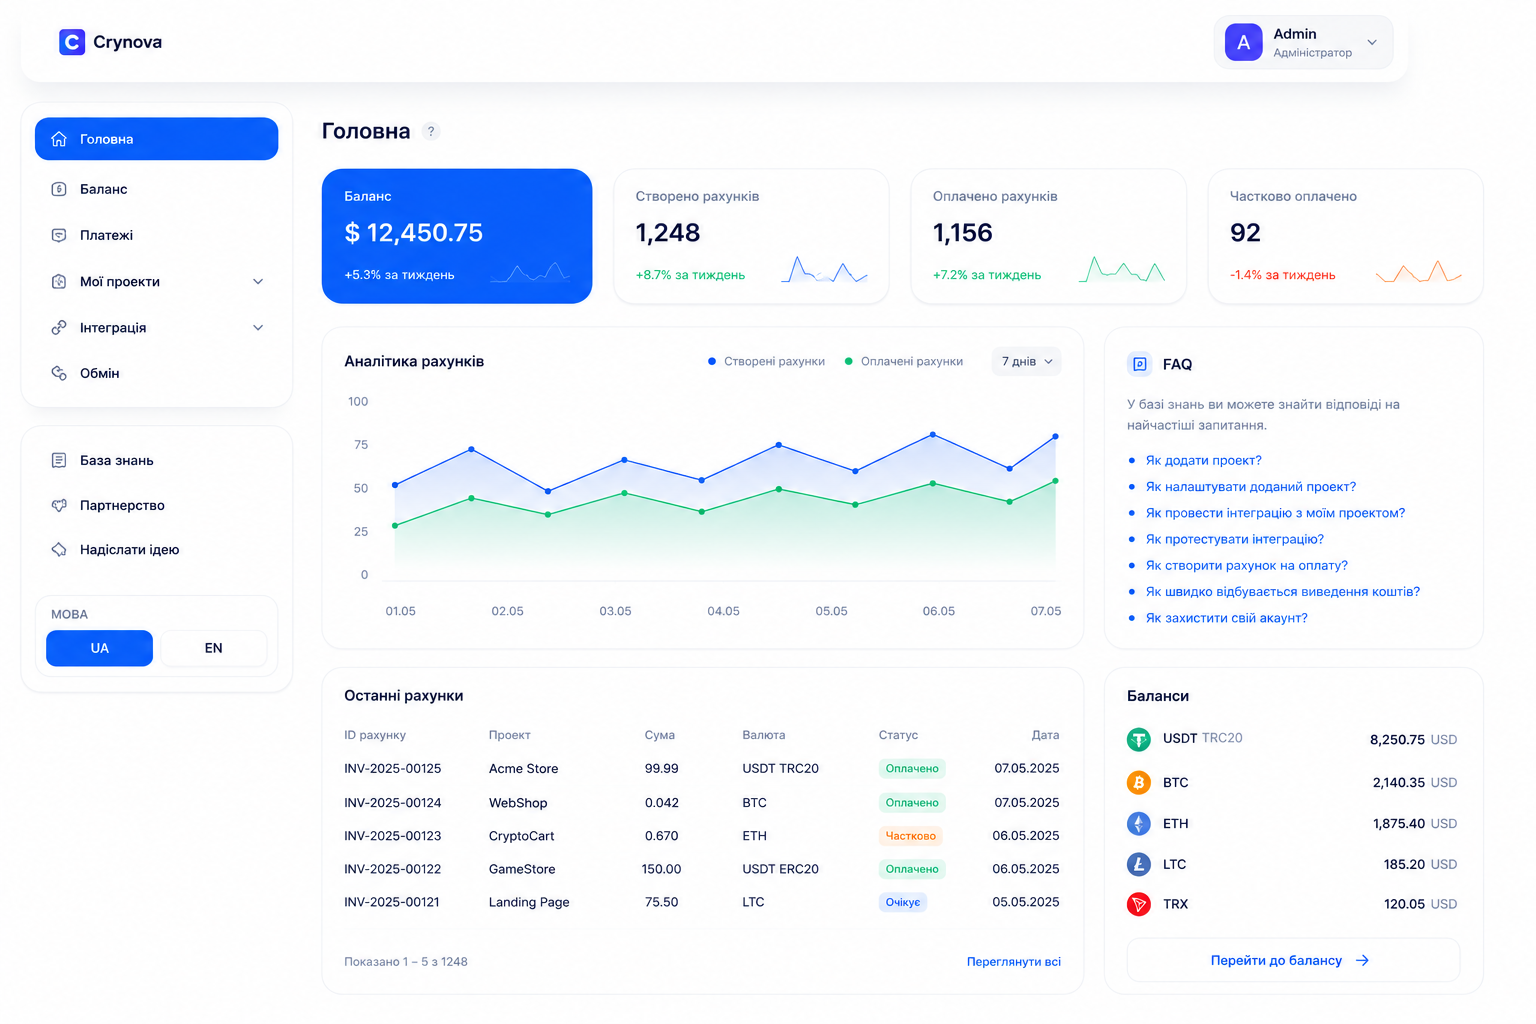
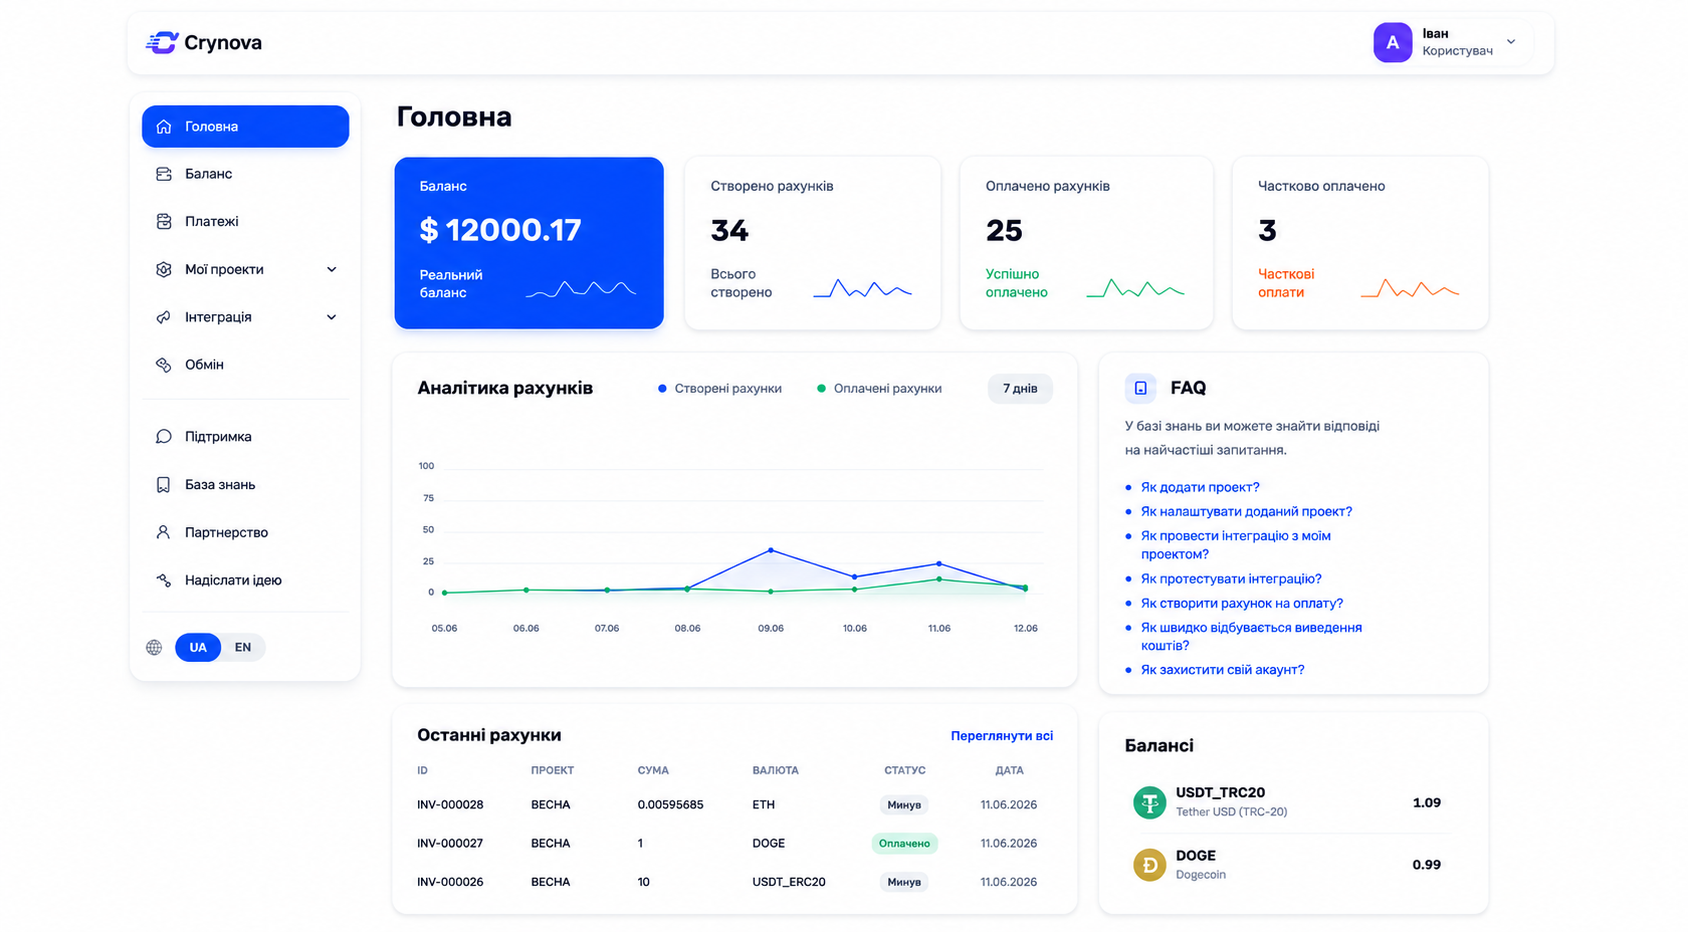
feat(footer): вставка Trustpilot с рейтингом (настраивается в админке)

diff --git a/resources/views/partials/public-footer.blade.php b/resources/views/partials/public-footer.blade.php
@@ -5,6 +5,10 @@
     $youtubeUrl = trim((string) \App\Models\Setting::get('youtube_url', ''));
     $telegramBotUrl = trim((string) \App\Models\Setting::get('telegram_bot_url', ''));
     $hasSocials = $telegramSupportUrl || $instagramUrl || $youtubeUrl;
+
+    $tpUrl = trim((string) \App\Models\Setting::get('trustpilot_url', ''));
+    $tpRating = (float) \App\Models\Setting::get('trustpilot_rating', 4.8);
+    $tpReviews = (int) \App\Models\Setting::get('trustpilot_reviews', 0);
 @endphp
 
 <footer class="border-t border-slate-200 bg-gradient-to-b from-white to-slate-50">
@@ -80,6 +84,41 @@
                 </ul>
             </div>
         </div>
+
+        @if($tpUrl)
+            @php
+                $tpFull = (int) floor($tpRating);
+                $tpHalf = ($tpRating - $tpFull) >= 0.25 && ($tpRating - $tpFull) < 0.75;
+                $tpStars = $tpHalf ? $tpFull : (int) round($tpRating);
+            @endphp
+            <a href="{{ $tpUrl }}" target="_blank" rel="noopener"
+               class="mt-12 flex flex-col items-center justify-between gap-4 rounded-3xl border border-slate-200 bg-white p-5 shadow-sm transition hover:border-[#00b67a]/40 hover:shadow-md sm:flex-row sm:p-6">
+                <div class="flex items-center gap-3">
+                    <svg width="22" height="22" viewBox="0 0 24 24" fill="#00b67a"><path d="m12 1.5 2.95 6.86 7.45.62-5.66 4.9 1.72 7.27L12 17.77 5.54 21.65l1.72-7.27L1.6 8.98l7.45-.62L12 1.5Z"/></svg>
+                    <div>
+                        <p class="text-base font-black tracking-tight text-slate-900">Trustpilot</p>
+                        <p class="text-xs text-slate-400">{{ __('public.footer.trustpilot_excellent') }}</p>
+                    </div>
+                </div>
+
+                <div class="flex items-center gap-3">
+                    <div class="flex items-center gap-0.5">
+                        @for($i = 1; $i <= 5; $i++)
+                            <span class="grid h-7 w-7 place-items-center rounded-[5px] {{ $i <= $tpStars ? 'bg-[#00b67a]' : 'bg-slate-200' }}">
+                                <svg width="16" height="16" viewBox="0 0 24 24" fill="#fff"><path d="m12 1.5 2.95 6.86 7.45.62-5.66 4.9 1.72 7.27L12 17.77 5.54 21.65l1.72-7.27L1.6 8.98l7.45-.62L12 1.5Z"/></svg>
+                            </span>
+                        @endfor
+                    </div>
+                    <div class="text-sm">
+                        <span class="font-black text-slate-900">{{ rtrim(rtrim(number_format($tpRating, 1), '0'), '.') }}</span>
+                        <span class="text-slate-400">/ 5</span>
+                        @if($tpReviews > 0)
+                            <span class="ml-1 text-slate-400">· {{ number_format($tpReviews) }} {{ __('public.footer.trustpilot_reviews') }}</span>
+                        @endif
+                    </div>
+                </div>
+            </a>
+        @endif
 
         <div class="mt-14 flex flex-col gap-4 border-t border-slate-200 pt-8 text-sm text-slate-500 sm:flex-row sm:items-center sm:justify-between">
             <p>© {{ date('Y') }} Crynova. {{ __('public.footer.rights') }}</p>

diff --git a/app/Http/Controllers/Admin/SettingController.php b/app/Http/Controllers/Admin/SettingController.php
@@ -45,6 +45,9 @@ class SettingController extends Controller
                     'instagram_url' => ['type' => 'url', 'label' => 'Instagram', 'default' => '', 'placeholder' => 'https://instagram.com/crynova'],
                     'youtube_url' => ['type' => 'url', 'label' => 'YouTube', 'default' => '', 'placeholder' => 'https://youtube.com/@crynova'],
                     'telegram_bot_url' => ['type' => 'url', 'label' => 'Telegram-бот (меню користувача)', 'default' => '', 'placeholder' => 'https://t.me/crynova_bot'],
+                    'trustpilot_url' => ['type' => 'url', 'label' => 'Trustpilot — сторінка відгуків', 'default' => '', 'placeholder' => 'https://www.trustpilot.com/review/crynova.io'],
+                    'trustpilot_rating' => ['type' => 'text', 'label' => 'Trustpilot — рейтинг (0–5)', 'default' => '4.8', 'placeholder' => '4.8'],
+                    'trustpilot_reviews' => ['type' => 'text', 'label' => 'Trustpilot — кількість відгуків', 'default' => '0', 'placeholder' => '128'],
                 ],
             ],
             'social_auth' => [

diff --git a/lang/en/public.php b/lang/en/public.php
@@ -237,6 +237,8 @@ return [
     "footer.risk" => "Risk Disclosure",
     "footer.rights" => "All rights reserved.",
     "footer.status" => "All systems operational",
+    "footer.trustpilot_excellent" => "Trusted by customers — read reviews",
+    "footer.trustpilot_reviews" => "reviews",
     "coins_page.title" => "Supported Coins & Networks",
     "coins_page.meta" => "Crynova supported cryptocurrencies and networks: BTC, ETH, USDT (TRC20/ERC20/BEP20), TRX, LTC, DOGE — plus invoices in 26 fiat currencies.",
     "coins_page.badge" => "Currencies",

diff --git a/lang/uk/public.php b/lang/uk/public.php
@@ -237,6 +237,8 @@ return [
     "footer.risk" => "Розкриття ризиків",
     "footer.rights" => "Усі права захищено.",
     "footer.status" => "Усі системи працюють",
+    "footer.trustpilot_excellent" => "Нам довіряють — читайте відгуки",
+    "footer.trustpilot_reviews" => "відгуків",
     "coins_page.title" => "Підтримувані монети та мережі",
     "coins_page.meta" => "Підтримувані криптовалюти та мережі Crynova: BTC, ETH, USDT (TRC20/ERC20/BEP20), TRX, LTC, DOGE — а також рахунки у 26 фіатних валютах.",
     "coins_page.badge" => "Валюти",